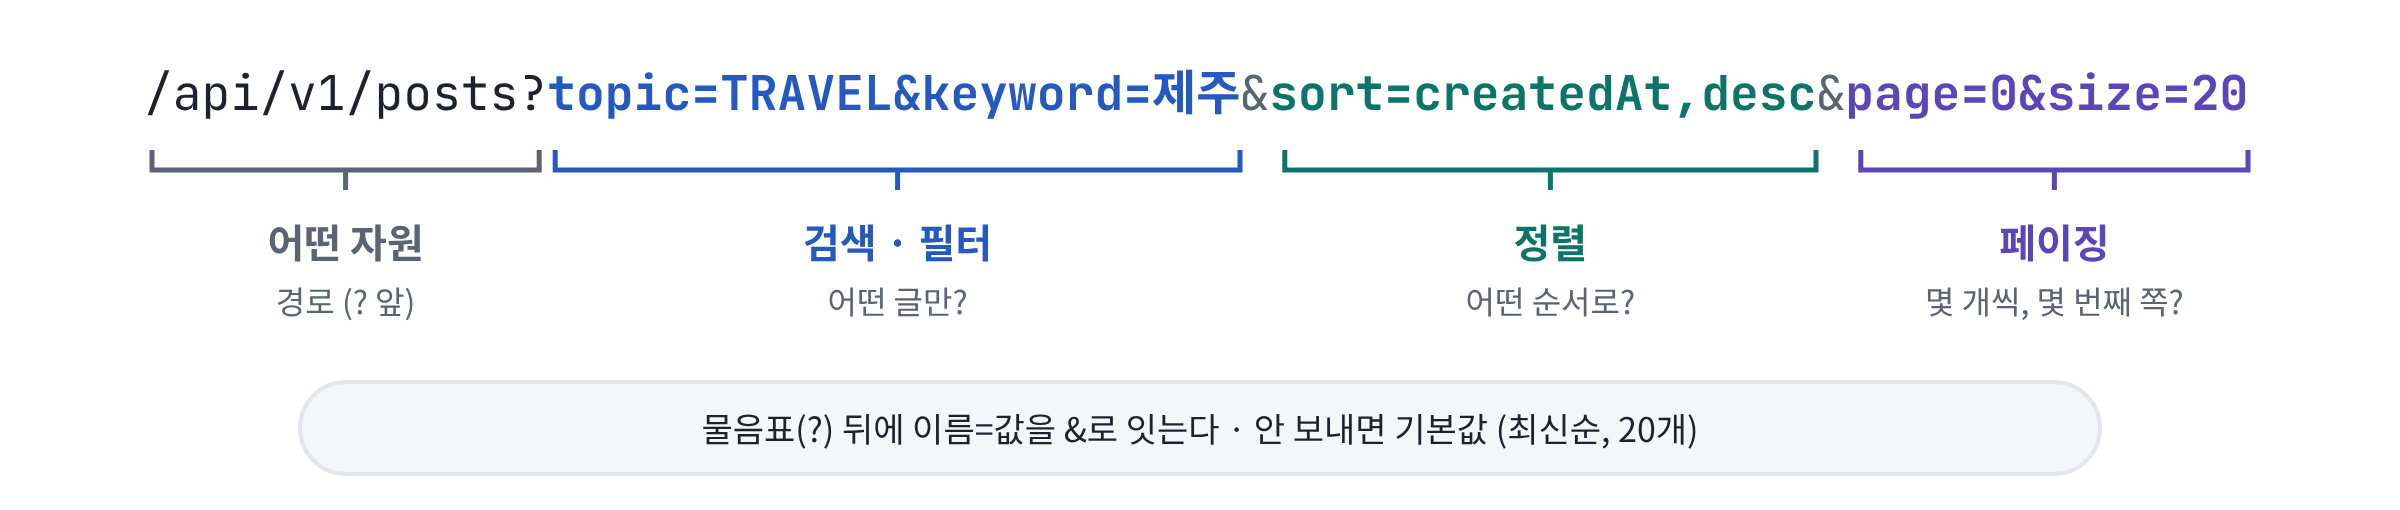
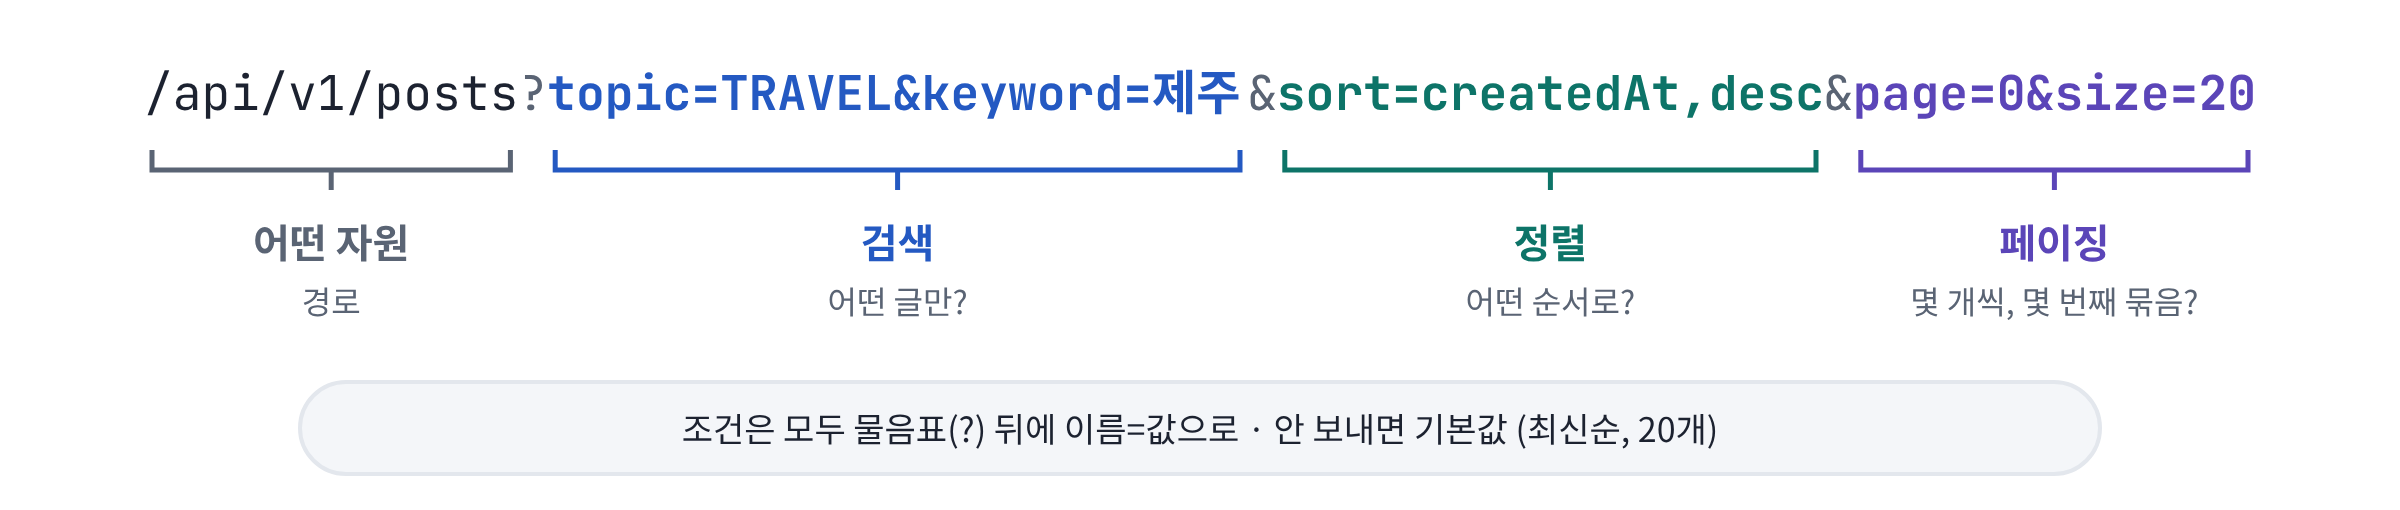
슬라이드 10을 주소 쌓기 애니메이션과 목록 응답 형식 중심으로 재구성
- 그림 11을 4단계로 나눈 애니메이션용 그림 추가 (발표/그림/애니메이션)
- 목록 응답 형식(content, page)과 서버 제한을 보여 주는 그림 11b 추가
- 오프셋과 커서 그림(12)은 예비 슬라이드로 돌리고 대본을 다시 씀

Claude-Session: https://claude.ai/code/session_01CZVM9D7xaiJyCCw2JrofgF

diff --git a/발표/그림/만들기/그림-생성.py b/발표/그림/만들기/그림-생성.py
@@ -588,30 +588,71 @@ f.text(132, 345, "같은 양식의", 15, 700, "teal", "start")
 f.text(132, 367, "에러 응답", 15, 700, "teal", "start")
 
 # ---------------------------------------------------------------- 11 검색·정렬·페이징 주소
-f = fig("11-검색-정렬-페이징-주소", "검색·정렬·페이징 주소 읽기", 1200, 300,
-        "목록 조건은 물음표 뒤 쿼리에 검색, 정렬, 페이징 순으로 이름=값을 &로 이어 붙인다.", oy=45)
-SZ = 24
-groups = [
-    ("/api/v1/posts?", "ink", 400, "어떤 자원", "경로 (? 앞)"),
-    ("topic=TRAVEL&keyword=제주", "blue", 700, "검색 · 필터", "어떤 글만?"),
+URL_GROUPS = [
+    ("/api/v1/posts", "ink", 400, "어떤 자원", "경로"),
+    ("?", "muted", 400, None, None),
+    ("topic=TRAVEL&keyword=제주", "blue", 700, "검색", "어떤 글만?"),
     ("&", "muted", 400, None, None),
     ("sort=createdAt,desc", "teal", 700, "정렬", "어떤 순서로?"),
     ("&", "muted", 400, None, None),
-    ("page=0&size=20", "violet", 700, "페이징", "몇 개씩, 몇 번째 쪽?"),
+    ("page=0&size=20", "violet", 700, "페이징", "몇 개씩, 몇 번째 묶음?"),
 ]
-total = sum(tw(g[0], SZ, True) for g in groups)
-x = (1200 - total) / 2
-f.rich(x, 100, [(g[0], g[1], g[2], True) for g in groups], SZ)
-for (s, col, wt, l1, l2) in groups:
-    w = tw(s, SZ, True)
-    if l1:
-        bc = "muted" if col == "ink" else col
-        f.add(f'<path d="M{x+4:.1f},120 V130 H{x+w-4:.1f} V120 M{x+w/2:.1f},130 V140" fill="none" stroke="{C[bc]}" stroke-width="2.5"/>')
-        f.text(x + w / 2, 174, l1, 20, 700, bc)
-        f.text(x + w / 2, 202, l2, 16, 400, "muted")
-    x += w
-f.rect(150, 236, 900, 46, "faint", "soft", rx=23)
-f.text(600, 266, "물음표(?) 뒤에 이름=값을 &로 잇는다 · 안 보내면 기본값 (최신순, 20개)", 17, 500)
+URL_STEPS = {1: 1, 2: 3, 3: 5, 4: 7}   # 단계별로 보여 줄 조각 수
+
+
+def url_fig(f, upto, footer):
+    SZ = 24
+    x = (1200 - sum(tw(g[0], SZ, True) for g in URL_GROUPS)) / 2   # 단계가 달라도 위치가 같도록 전체 기준
+    for (s_, col, wt, l1, l2) in URL_GROUPS[:upto]:
+        w = tw(s_, SZ, True)
+        f.text(x, 100, s_, SZ, wt, col, "start", True)
+        if l1:
+            bc = "muted" if col == "ink" else col
+            f.add(f'<path d="M{x+4:.1f},120 V130 H{x+w-4:.1f} V120 M{x+w/2:.1f},130 V140" fill="none" stroke="{C[bc]}" stroke-width="2.5"/>')
+            f.text(x + w / 2, 174, l1, 20, 700, bc)
+            f.text(x + w / 2, 202, l2, 16, 400, "muted")
+        x += w
+    if footer:
+        f.rect(150, 236, 900, 46, "faint", "soft", rx=23)
+        f.text(600, 266, "조건은 모두 물음표(?) 뒤에 이름=값으로 · 안 보내면 기본값 (최신순, 20개)", 17, 500)
+
+
+f = fig("11-검색-정렬-페이징-주소", "검색·정렬·페이징 주소 읽기", 1200, 300,
+        "목록 조건은 경로가 아니라 물음표 뒤 쿼리에 검색, 정렬, 페이징을 이름=값으로 이어 붙인다.", oy=45)
+url_fig(f, 7, True)
+for k, upto in URL_STEPS.items():
+    f = fig(f"애니메이션/11-주소-쌓기-{k}단계", f"주소 쌓기 {k}단계", 1200, 300, f"검색·정렬·페이징 주소를 쌓아 가는 {k}단계", oy=45)
+    url_fig(f, upto, k == 4)
+
+# ---------------------------------------------------------------- 11b 목록 응답 형식
+f = fig("11b-목록-응답-형식", "목록 응답 형식", 1240, 590,
+        "목록 응답은 이번 묶음의 글(content)과 페이지 정보(page)를 함께 주고, 화면은 페이지 정보로 페이지 번호와 다음 버튼을 그린다.")
+f.rich(40, 50, [("요청  ", "muted", 700), ("GET /api/v1/posts?page=1&size=20", "blue", 700, True)], 19)
+f.rect(40, 76, 600, 410, "teal", "white")
+JL = [
+    ("{", "ink", 400), ('  "content": [', "teal", 700), ('    { "id": 37, "title": "부산 맛집", ... },', "ink", 400),
+    ('    { "id": 36, "title": "제주 여행", ... },', "ink", 400), ("    ... 모두 20개", "muted", 400), ("  ],", "teal", 700),
+    ('  "page": {', "violet", 700), ('    "number": 1,', "violet", 700), ('    "size": 20,', "violet", 700),
+    ('    "totalElements": 57,', "violet", 700), ('    "totalPages": 3', "violet", 700), ("  }", "violet", 700), ("}", "ink", 400),
+]
+for i, (t, c, w) in enumerate(JL):
+    f.text(62, 112 + i * 28, t, 16, w, c, "start", True)
+f.add(f'<path d="M626,140 H650 V224 H626" fill="none" stroke="{C["teal"]}" stroke-width="2"/>')
+f.text(664, 178, "content: 이번 묶음의 글 목록", 17, 700, "teal", "start")
+f.text(664, 202, "최대 size개, 결과가 없으면 빈 배열 []", 15, 400, "muted", "start")
+for i, (k, t) in enumerate([("number", "지금 몇 번째 묶음인지 (0부터 → 화면엔 2쪽)"), ("size", "한 묶음에 몇 개"),
+                            ("totalElements", "전체 글 수"), ("totalPages", "전체 묶음 수 → 마지막 쪽 번호")]):
+    y = 308 + i * 28
+    f.add(f'<line x1="{620 - (0 if k != "totalElements" else 0)}" y1="{y-5}" x2="656" y2="{y-5}" stroke="{C["violet"]}" stroke-width="1.5" stroke-dasharray="3 4"/>')
+    f.rich(664, y, [(k, "violet", 700, True), ("  " + t, "ink", 400)], 15)
+f.text(664, 440, "화면 표시", 15, 700, "muted", "start")
+for j, (lab, on) in enumerate([("‹", False), ("1", False), ("2", True), ("3", False), ("›", False)]):
+    bx = 760 + j * 46
+    f.rect(bx, 418, 38, 36, "blue" if on else "line", "blue" if on else "white", rx=8, sw=1.5)
+    f.text(bx + 19, 442, lab, 16, 700, "white" if on else "ink")
+f.text(1000, 442, "2 / 3쪽", 16, 600, "ink", "start")
+f.rect(40, 512, 1160, 52, "faint", "soft", rx=12)
+f.rich(620, 545, [("서버가 제한할 것  ", "ink", 700), ("size 최대 100 · 정렬은 정해 둔 필드만 · 정렬 조건이 없으면 최신순", "muted", 500)], 17, "middle")
 
 # ---------------------------------------------------------------- 12 오프셋과 커서
 f = fig("12-오프셋과-커서", "오프셋과 커서", 1200, 600,
@@ -856,6 +897,7 @@ f.text(650, 624, "그대로 500을 주지 말고 원인에 맞는 코드로", 14
 
 # ---------------------------------------------------------------- write
 for fg in FIGS:
+    os.makedirs(os.path.dirname(os.path.join(OUT, fg.name + ".svg")), exist_ok=True)
     with open(os.path.join(OUT, fg.name + ".svg"), "w", encoding="utf-8") as fh:
         fh.write(fg.svg())
 print(len(FIGS), "figures written to", OUT)

diff --git a/발표/그림/README.md b/발표/그림/README.md
@@ -1,6 +1,6 @@
 # 발표 그림
 
-슬라이드에 넣는 그림 21장입니다. 모든 예시는 자료 전체와 같은 **블로그 API(42번 글)** 를 씁니다.
+슬라이드에 넣는 그림 22장입니다. 모든 예시는 자료 전체와 같은 **블로그 API(42번 글)** 를 씁니다.
 
 - **PNG**: PPT·키노트에 바로 붙여 넣기 (2배 해상도)
 - **SVG**: 크기를 키워도 깨지지 않음. 글꼴은 Noto Sans KR · JetBrains Mono 기준이고, 없으면 맑은 고딕 · Consolas 로 대신 보입니다.
@@ -121,17 +121,25 @@
 
 ## 검색·정렬·페이징 주소 읽기 (슬라이드 10)
 
-![목록 조건은 물음표 뒤 쿼리에 검색, 정렬, 페이징 순으로 이름=값을 &로 이어 붙인다.](11-검색-정렬-페이징-주소.png)
+![목록 조건은 경로가 아니라 물음표 뒤 쿼리에 검색, 정렬, 페이징을 이름=값으로 이어 붙인다.](11-검색-정렬-페이징-주소.png)
 
-> 목록 조회의 조건은 모두 쿼리 스트링으로 전달합니다. 검색 조건은 topic, keyword, 정렬은 sort=필드,방향, 페이징은 page와 size로 표현합니다. 값을 보내지 않으면 서버가 정한 기본값, 예를 들어 최신순 20개를 적용합니다.
+> 글 목록 API를 만들 때는 어떤 글을, 어떤 순서로, 한 번에 몇 개씩 보여 줄지를 정해야 합니다. 이 세 가지는 모두 물음표 뒤 쿼리 스트링으로 받습니다. topic과 keyword는 검색, sort=createdAt,desc는 최신순 정렬, page와 size는 0번째 묶음을 20개씩 달라는 뜻입니다. 경로가 아니라 쿼리에 넣는 이유는, 경로는 어떤 자원인지를 가리키기 때문입니다. 조건을 바꿔도 대상은 같은 글 목록이고 보여 주는 방식만 달라집니다. 쿼리는 이름=값 형태라 각 값의 뜻이 보이고, 필요한 것만 넣으면 되고, 아무것도 안 보내면 최신순 20개가 기본으로 옵니다. 발표할 때는 애니메이션 폴더의 1~4단계 그림으로 주소를 한 조각씩 쌓아 가며 설명합니다.
 
 파일: [`11-검색-정렬-페이징-주소.png`](11-검색-정렬-페이징-주소.png) · [`11-검색-정렬-페이징-주소.svg`](11-검색-정렬-페이징-주소.svg)
 
-## 오프셋과 커서 (슬라이드 10)
+## 목록 응답 형식 (슬라이드 10)
+
+![목록 응답은 이번 묶음의 글(content)과 페이지 정보(page)를 함께 주고, 화면은 페이지 정보로 페이지 번호와 다음 버튼을 그린다.](11b-목록-응답-형식.png)
+
+> 응답에는 이번 묶음의 글 목록(content)과 함께 페이지 정보(page)를 줍니다. number는 지금 몇 번째 묶음인지, size는 한 묶음에 몇 개인지, totalElements는 전체 글 수, totalPages는 전체 묶음 수입니다. 화면은 이 정보로 페이지 번호와 이전·다음 버튼을 그립니다. number가 0부터 시작하므로 number 1은 화면에서 2쪽입니다. 결과가 없으면 404가 아니라 200과 빈 배열을 줍니다. 대신 서버는 size를 최대 100으로, 정렬은 정해 둔 필드로만 제한하고, 정렬 조건이 없으면 최신순으로 합니다. size=1000000 같은 요청 하나로 서버가 멈추면 안 되기 때문입니다.
+
+파일: [`11b-목록-응답-형식.png`](11b-목록-응답-형식.png) · [`11b-목록-응답-형식.svg`](11b-목록-응답-형식.svg)
+
+## 오프셋과 커서 (슬라이드 10 (예비))
 
 ![오프셋은 앞의 글을 세며 건너뛰어 쪽 번호로 이동하고, 커서는 마지막으로 본 글 다음부터 바로 가져온다.](12-오프셋과-커서.png)
 
-> 페이징 방식은 두 가지입니다. 오프셋은 page와 size로 앞의 데이터를 건너뛰고 가져오는 방식으로, 페이지 번호로 바로 이동할 수 있어 게시판에 맞습니다. 대신 뒤 페이지일수록 건너뛸 행이 많아져 느려지고, 그사이 새 글이 추가되면 결과가 겹치거나 빠질 수 있습니다. 커서는 마지막으로 받은 항목의 기준값 다음부터 가져오는 방식이라 데이터가 많아도 성능이 일정하고 무한 스크롤에 맞습니다. 어느 방식이든 size 최댓값, 기본 정렬, 정렬 가능한 필드는 서버에서 제한합니다.
+> 예비 슬라이드입니다. 발표에서는 '페이지 번호가 있는 게시판은 page 방식(오프셋), 무한 스크롤은 마지막으로 본 글 다음부터 가져오는 커서 방식' 한 문장만 말하고, 질문이 나오면 이 그림을 보여 줍니다. 오프셋은 쪽 번호로 바로 이동할 수 있지만 앞의 글을 세며 건너뛰기 때문에 뒤로 갈수록 느려지고, 그사이 새 글이 들어오면 결과가 겹칠 수 있습니다. 커서는 마지막으로 받은 항목 다음부터 가져와서 데이터가 많아도 성능이 일정합니다.
 
 파일: [`12-오프셋과-커서.png`](12-오프셋과-커서.png) · [`12-오프셋과-커서.svg`](12-오프셋과-커서.svg)
 
@@ -182,4 +190,9 @@
 ```bash
 python3 발표/그림/만들기/그림-생성.py 발표/그림     # SVG 다시 만들기
 node 발표/그림/만들기/png-만들기.js 발표/그림          # PNG 다시 만들기 (Playwright 필요)
+node 발표/그림/만들기/png-만들기.js 발표/그림/애니메이션
 ```
+
+## 애니메이션용 그림
+
+`애니메이션/11-주소-쌓기-1단계` ~ `4단계`는 그림 11의 주소를 한 조각씩 쌓아 가는 그림입니다. 슬라이드 4장에 같은 위치로 넣고 차례로 넘기면 주소가 늘어나는 것처럼 보입니다.

diff --git a/발표/발표-흐름-15분.md b/발표/발표-흐름-15분.md
@@ -244,26 +244,47 @@ class GlobalExceptionHandler {
 
 ---
 
-## 10. 페이징·검색·정렬 (1:00)
+## 10. 페이징·검색·정렬 (1:30)
 
 **화면**
 
-```text
-GET /api/v1/posts?topic=TRAVEL&keyword=제주&sort=createdAt,desc&page=0&size=20
-                  └──── 검색 ────┘ └────── 정렬 ──────┘ └─── 페이징 ──┘
-```
+1. [`그림/애니메이션/11-주소-쌓기-1단계.png`](그림/애니메이션/11-주소-쌓기-1단계.png) ~ [`4단계`](그림/애니메이션/11-주소-쌓기-4단계.png): 슬라이드 4장에 같은 위치로 넣고 차례로 넘겨 주소를 한 조각씩 쌓는다
+2. [`그림/11b-목록-응답-형식.png`](그림/11b-목록-응답-형식.png): 목록 응답과 서버가 제한할 것
+3. (예비) [`그림/12-오프셋과-커서.png`](그림/12-오프셋과-커서.png): 질문이 나오면 보여 준다
 
-| 방식 | 언제 |
-|---|---|
-| 오프셋 `?page=2&size=20` | 게시판 (1 2 3 페이지 번호) |
-| 커서 `?cursor=…&size=20` | 무한 스크롤, 데이터가 아주 많을 때 |
-
-안전장치: **size 최댓값 · 기본 정렬 · 정렬 가능한 칸 제한**
+| 순서 | 화면 | 말할 것 | 시간 |
+|---|---|---|---|
+| ① 문제 | 주소 1단계 | 목록 API가 정해야 할 세 가지 | 10초 |
+| ② 요청 | 주소 2~4단계 | 한 조각씩 붙이며 설명 + 왜 쿼리에 넣나 | 40초 |
+| ③ 응답 | 11b | 목록과 함께 페이지 정보를 준다 | 20초 |
+| ④ 안전장치 | 11b 아래 줄 | size 최댓값, 정렬 가능 필드, 기본 정렬 | 15초 |
+| ⑤ 방식 | 11b 그대로 | 오프셋 vs 커서 한 문장 | 5초 |
 
 **대사**
-> 글이 100만 개인데 한 번에 다 줄 수는 없겠죠. 도서관에서 "소설 코너에서, 최신순으로, 20권씩" 달라고 하듯이, 조건을 물음표 뒤에 붙여요.
-> 페이지 번호가 있는 게시판은 오프셋, 인스타처럼 계속 내리는 화면은 커서 방식이 잘 맞아요.
-> 그리고 `size=100만` 같은 요청에 서버가 멈추지 않게 **최댓값은 꼭** 정해 둡니다.
+> **(① 1단계)** 글 목록 API를 만들 때는 세 가지를 정해야 합니다. 어떤 글을 보여 줄지, 어떤 순서로 보여 줄지, 한 번에 몇 개씩 보여 줄지입니다. 글이 100만 개면 한 번에 줄 수 없으니까요.
+>
+> **(② 2단계)** 이 세 가지는 모두 물음표 뒤 쿼리 스트링으로 받습니다. `topic`과 `keyword`는 검색입니다. 여행 주제이면서 제주가 들어간 글만 달라는 뜻입니다.
+> **(3단계)** `sort=createdAt,desc`는 정렬입니다. 작성 시각 기준 내림차순, 즉 최신순입니다.
+> **(4단계)** `page`와 `size`는 페이징입니다. 0번째 묶음을 20개씩 달라는 뜻입니다.
+> 경로가 아니라 쿼리에 넣는 이유는, 앞에서 말했듯 경로는 어떤 자원인지를 가리키기 때문입니다. 조건을 바꿔도 대상은 같은 글 목록이고, 보여 주는 방식만 달라집니다. 쿼리는 이름=값 형태라 각 값의 뜻이 보이고, 필요한 것만 넣으면 되고, 아무것도 안 보내면 최신순 20개가 기본으로 옵니다.
+>
+> **(③ 11b)** 응답에는 글 목록과 함께 페이지 정보를 줍니다. 전체 글 수와 전체 묶음 수를 알아야 화면에 페이지 번호나 다음 버튼을 그릴 수 있기 때문입니다. 결과가 없으면 404가 아니라 200과 빈 배열을 줍니다.
+>
+> **(④ 11b 아래 줄)** 대신 서버는 세 가지를 제한합니다. `size`는 최대 100까지, 정렬은 정해 둔 필드로만, 정렬 조건이 없으면 최신순으로 합니다. `size=1000000` 같은 요청 하나로 서버가 멈추면 안 되니까요.
+>
+> **(⑤)** 페이지 번호가 있는 게시판은 지금 본 `page` 방식을, 무한 스크롤은 마지막으로 본 글 다음부터 가져오는 커서 방식을 씁니다.
+
+**말하지 않을 것**: `?`·`&`·`=` 기호 설명, 한글 인코딩, Spring Data 내부 형식, 오프셋과 커서의 자세한 차이 (질문이 나오면 답한다)
+
+**질문이 나오면**
+
+| 질문 | 답 |
+|---|---|
+| 조회인데 조건이 너무 많으면? | 예외적으로 `POST /posts/search` + 바디로 받기도 함 |
+| page는 0부터? 1부터? | Spring 기본은 0, 팀에서 정해서 문서에 적음 (예상 질문 Q7) |
+| 오프셋과 커서 차이는? | 예비 슬라이드(그림 12)를 보여 준다 |
+| 검색 결과가 0개면? | 404가 아니라 200 + 빈 배열 |
+| 정렬 필드는 왜 제한하나? | 인덱스 없는 컬럼으로 정렬하면 DB가 느려지고, 노출하면 안 되는 필드로 정렬해 정보를 추측할 수 있음 |
 
 ---
 
